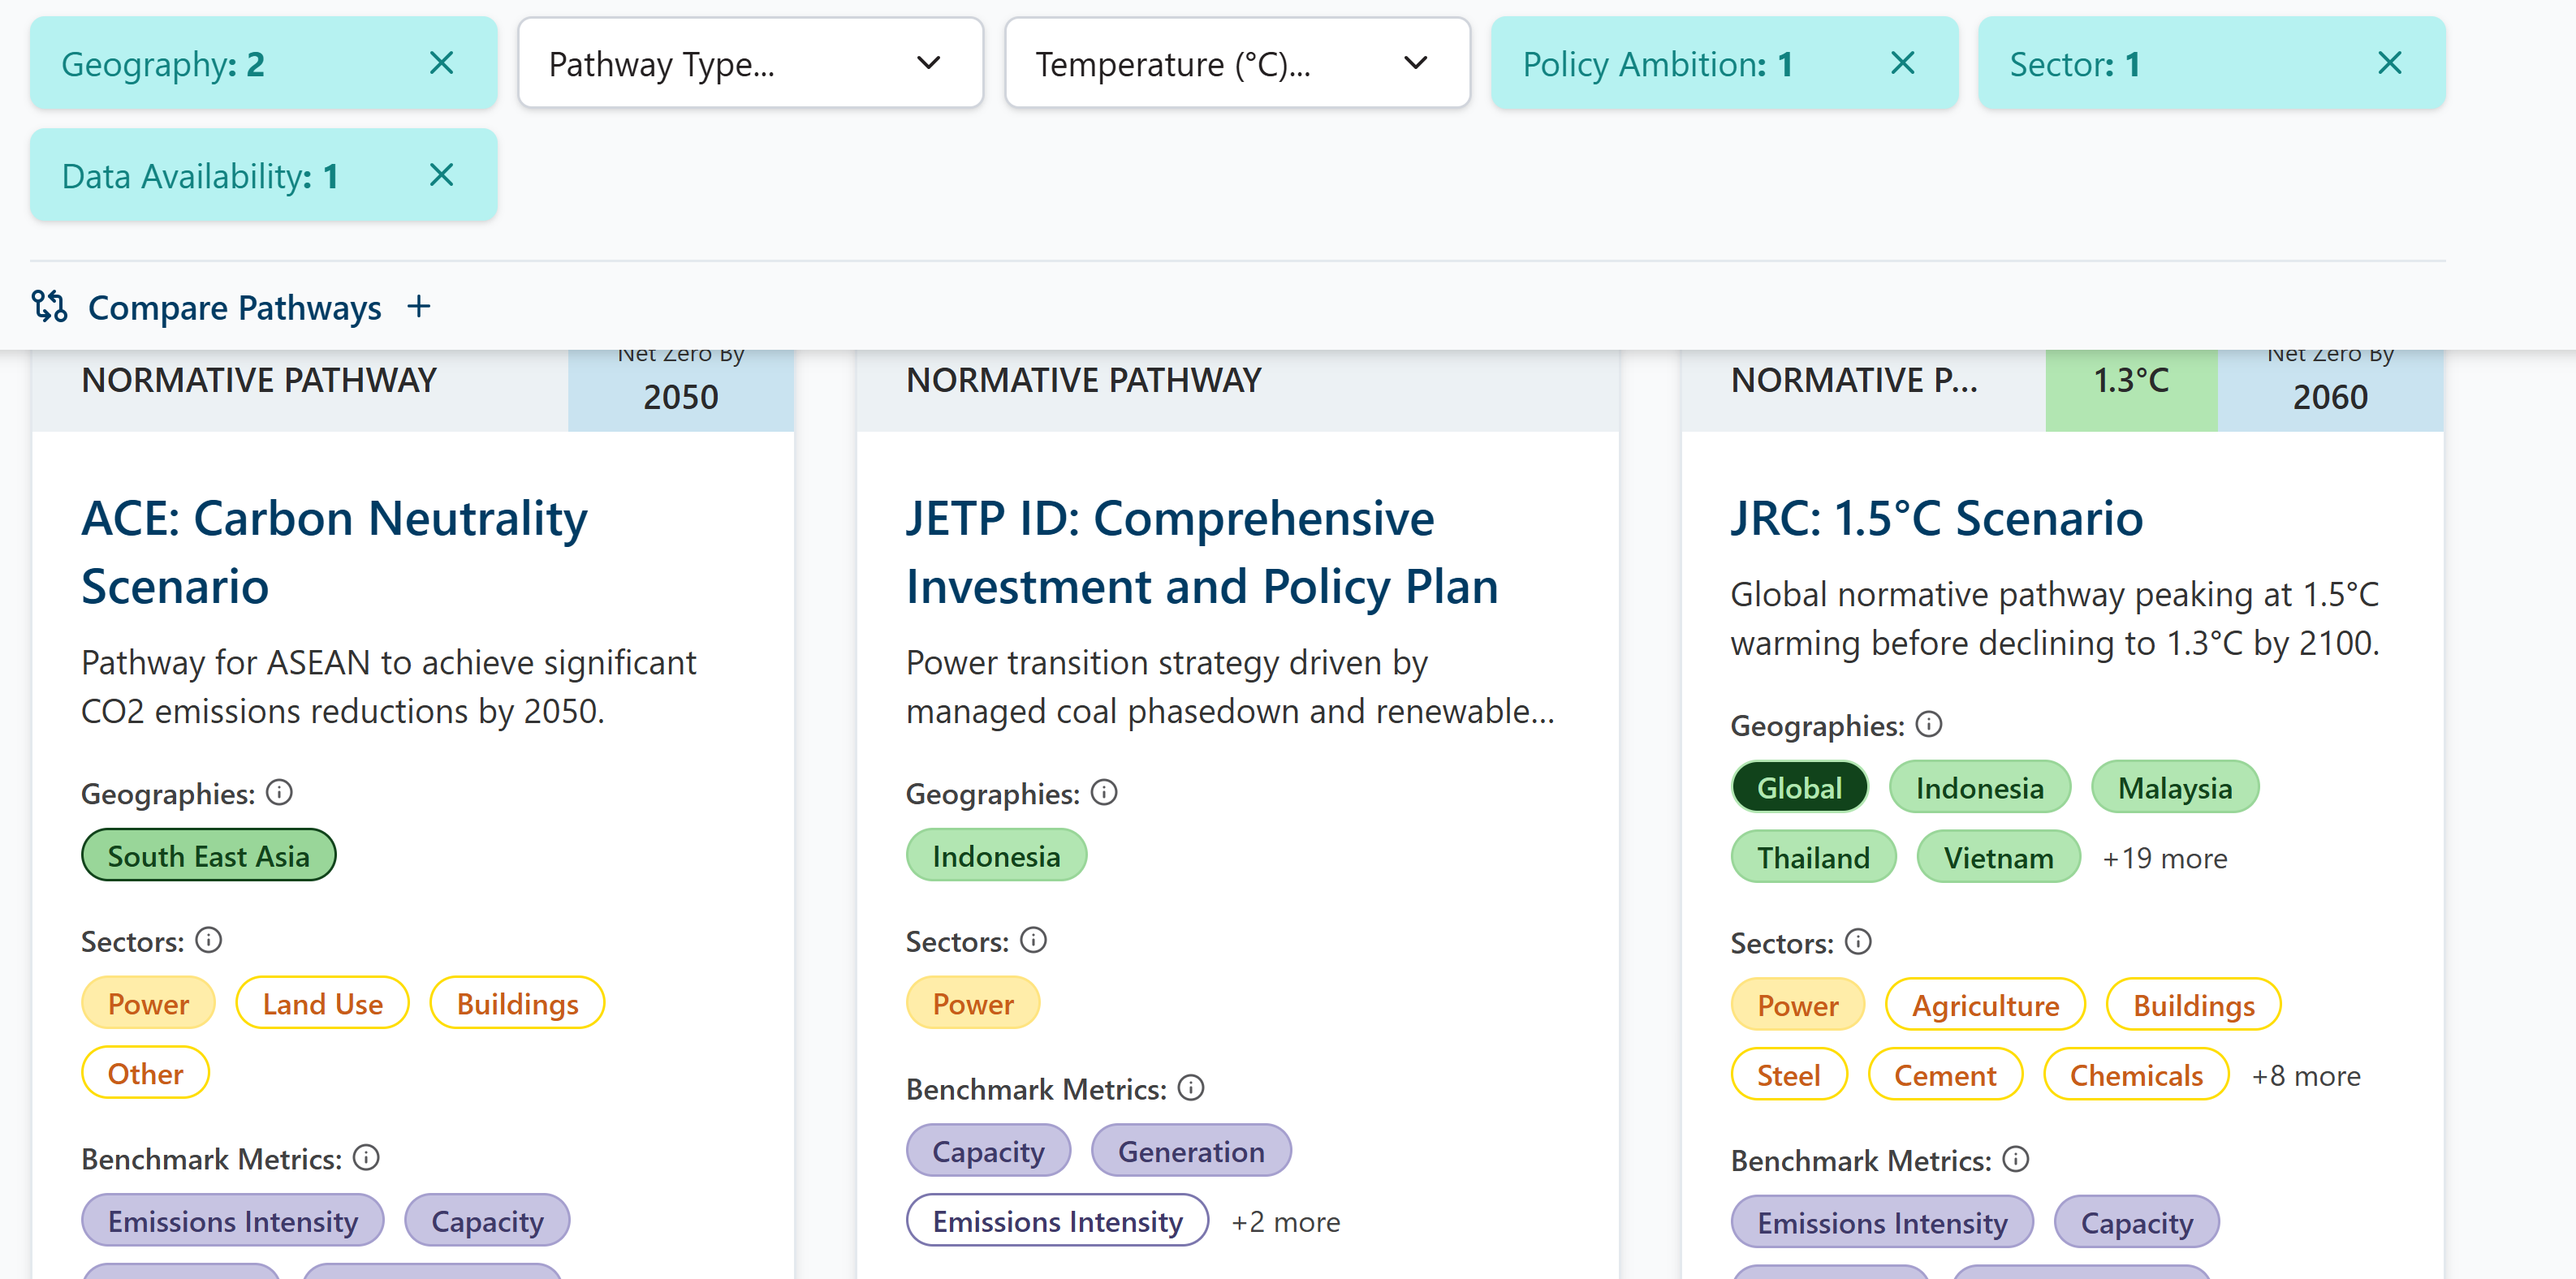
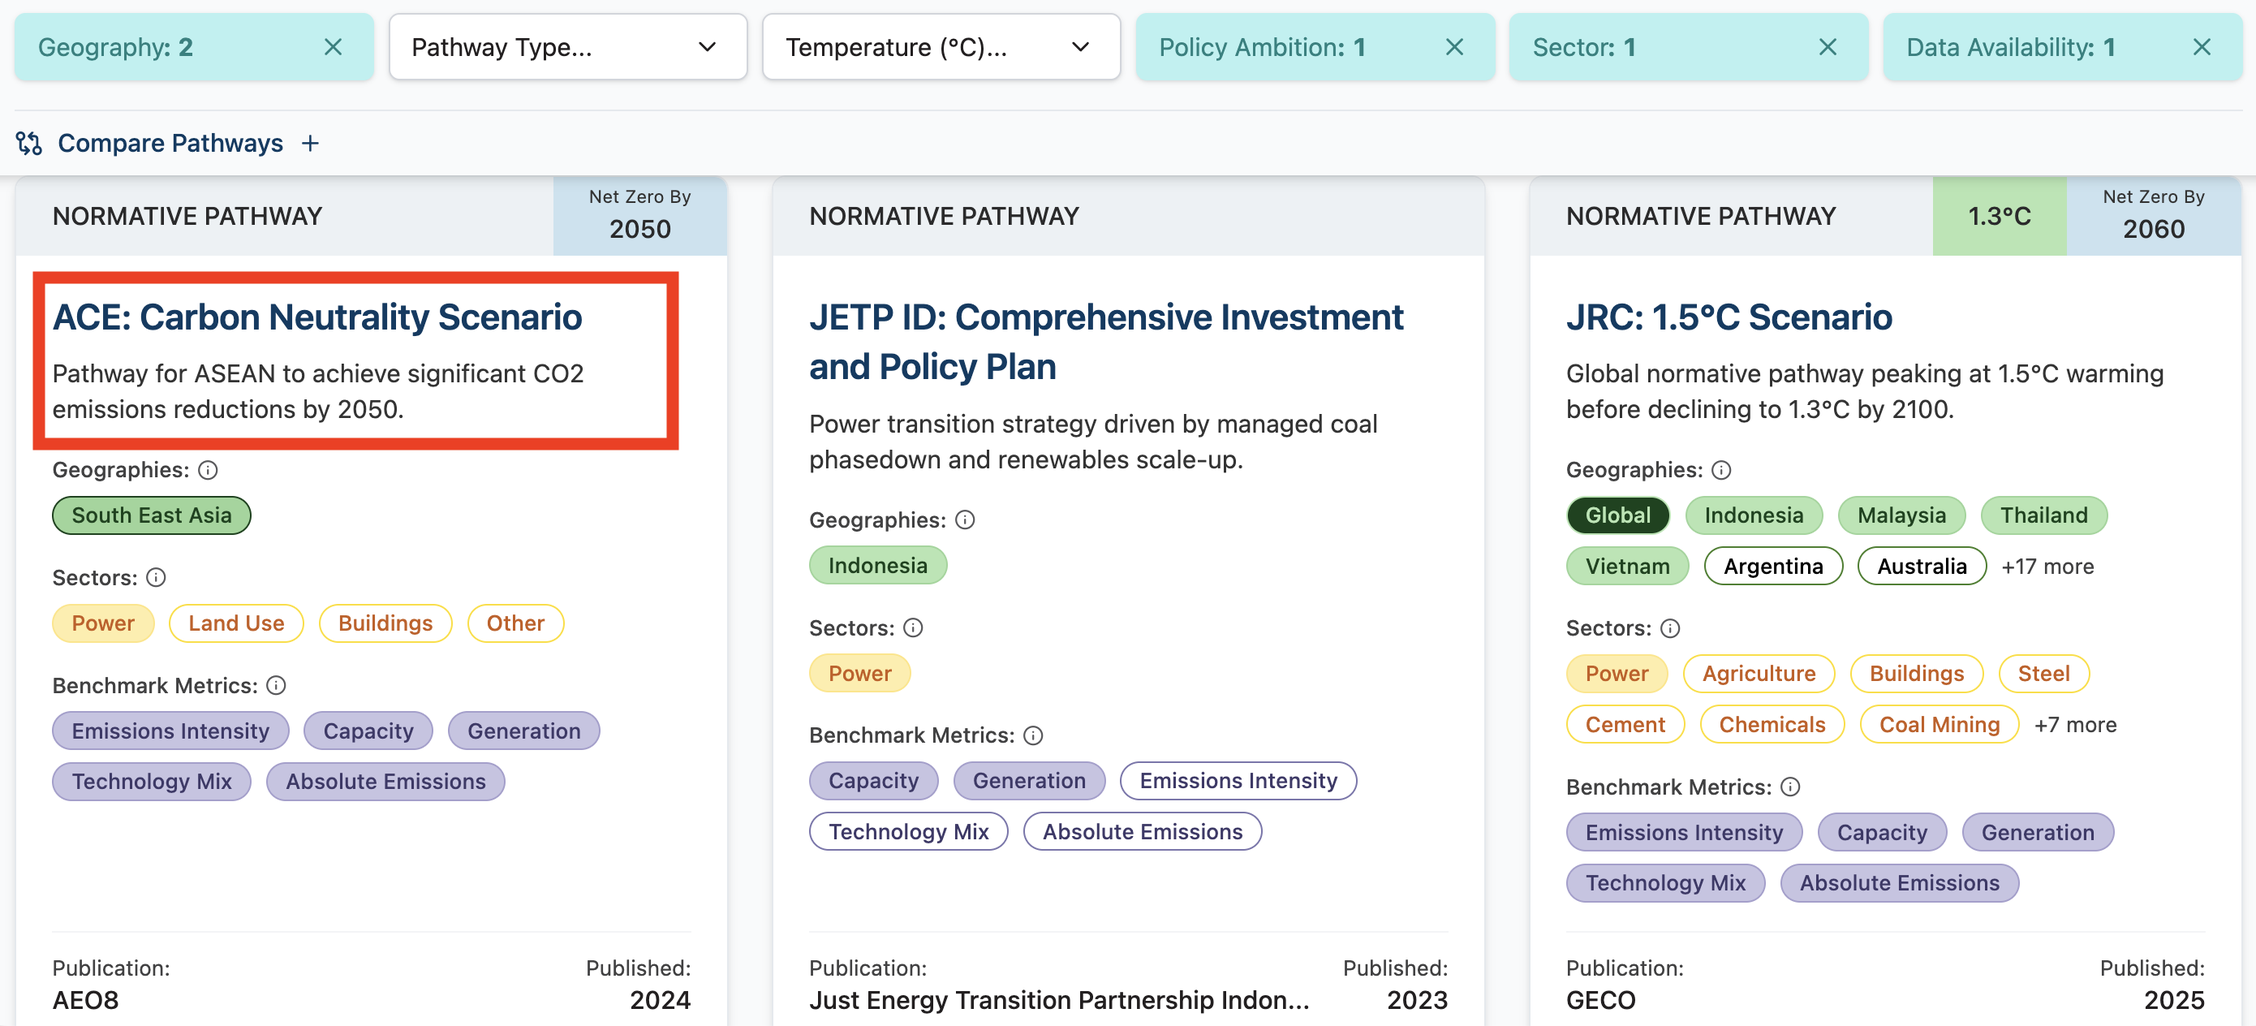
feat(case-studies): update the filter screenshots
Replace the target setting and policy risk screenshots and add one for
the investment and financing opportunities case study. The charts stay.

diff --git a/src/pages/CaseStudiesPage.tsx b/src/pages/CaseStudiesPage.tsx
@@ -129,7 +129,7 @@ export const caseStudies: CaseStudy[] = [
             </p>
             <img
               src="/case-studies/company-target-setting-filters.png"
-              alt="The repository's search filtered to Indonesia and Southeast Asia, the power sector, high policy ambition and downloadable data. ACE: Carbon Neutrality Scenario is among the results."
+              alt="The repository's search with filters set for geography, policy ambition, sector and data availability. ACE: Carbon Neutrality Scenario is highlighted among the results, next to JETP ID: Comprehensive Investment and Policy Plan and JRC: 1.5°C Scenario."
               loading="lazy"
               className={figureClass}
             />
@@ -242,6 +242,12 @@ export const caseStudies: CaseStudy[] = [
               be competitive and scale in the current policy and market
               environment.
             </p>
+            <img
+              src="/case-studies/investment-opportunity-identification-filters.png"
+              alt="The repository's search with filters set for geography, policy ambition, sector and data availability. Two pathways match: JRC: Reference Scenario, which is highlighted, and TransitionZero: Business as Usual."
+              loading="lazy"
+              className={figureClass}
+            />
           </>
         ),
         "analysis": (
@@ -399,7 +405,7 @@ export const caseStudies: CaseStudy[] = [
             </p>
             <img
               src="/case-studies/policy-risk-assessment-filters.png"
-              alt="The repository's search filtered to Malaysia and the power sector, finding 23 pathways. JRC: Nationally Determined Contributions and Long-Term Strategies and JRC: Reference Scenario are among the results."
+              alt="The repository's search with Malaysia selected in the geography filter, plus filters for sector and data availability. JRC: Nationally Determined Contributions and Long-Term Strategies and JRC: Reference Scenario are highlighted among the results."
               loading="lazy"
               className={figureClass}
             />

diff --git a/src/pages/CaseStudiesPage.test.tsx b/src/pages/CaseStudiesPage.test.tsx
@@ -79,7 +79,7 @@ describe("CaseStudiesPage", () => {
     renderPage();
 
     const figures = screen.getAllByRole("img");
-    expect(figures).toHaveLength(5);
+    expect(figures).toHaveLength(6);
     for (const figure of figures) {
       expect(figure).toHaveAccessibleName();
     }
